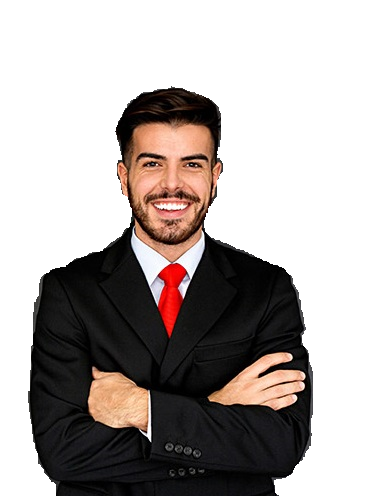
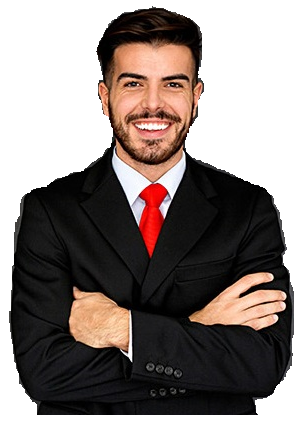
Ajuste do tamanho da foto de Mauricio

diff --git a/css/stylesheet.css b/css/stylesheet.css
@@ -129,7 +129,10 @@ ul .info-link1:hover, ul .info-link2:hover{
 }
 .img-sobre{
     padding: 20px;
-    width: 600px;   
+    max-width: 500px;   
+}
+.img-sobre .foto-mauricio{
+    width: 100%;
 }
 @media screen and (min-width: 968px) {
     body {
@@ -141,7 +144,7 @@ ul .info-link1:hover, ul .info-link2:hover{
      display: flex;
      align-items: center;
      justify-content: space-between;
-      
+
     }
     .header-nav{
         padding: 10px;

diff --git a/index.html b/index.html
@@ -81,7 +81,7 @@
                     </article>
             
             <div class="img-sobre">
-                <img src="img/minha-foto.png"/>
+                <img src="img/minha-foto.png" class="foto-mauricio"/>
             </div>
         </section>
     </section>
